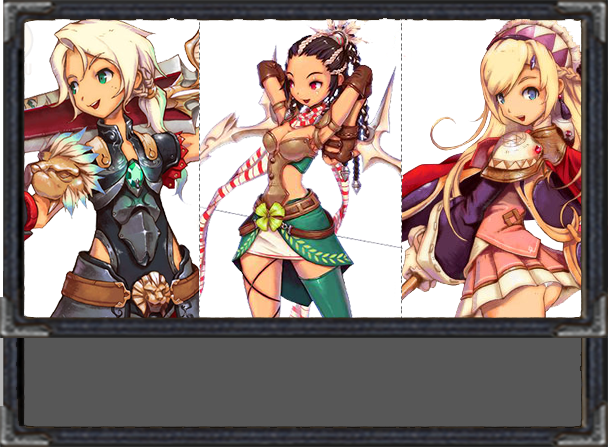
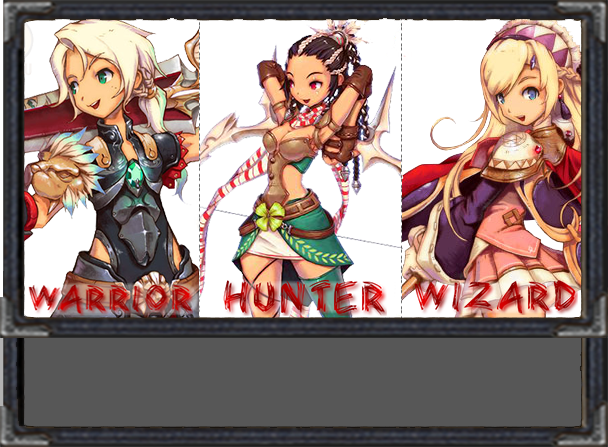
Fixed images in ClassSelectionView so you know what classes it is.

Changed region(s): [[0.0312, 0.6107, 0.9688, 0.7271]]

diff --git a/src/View/ClassSelectionView.java b/src/View/ClassSelectionView.java
@@ -55,7 +55,7 @@ public class ClassSelectionView extends BasicGameState implements ActionListener
 
 		backgroundImage = new Image("res/miscImages/classSelectionBg.png");
 		backButton = new Image("res/buttons/back.png");
-		classImage = new Image("res/classImages/classes2.png");
+		classImage = new Image("res/classImages/classes.png");
 		title = "Choose your class!";
 		
 	}

diff --git a/src/Model/MainHub.java b/src/Model/MainHub.java
@@ -29,7 +29,7 @@ public class MainHub {
 	private int mapSelected;
 	private int difficultySelected;
 	private Arena[] maps;
-	private String playerName = "eeee";
+	private String playerName = "xXx";
 	//Singleton
 	public static MainHub getController() {
 	if (myControl == null) {
